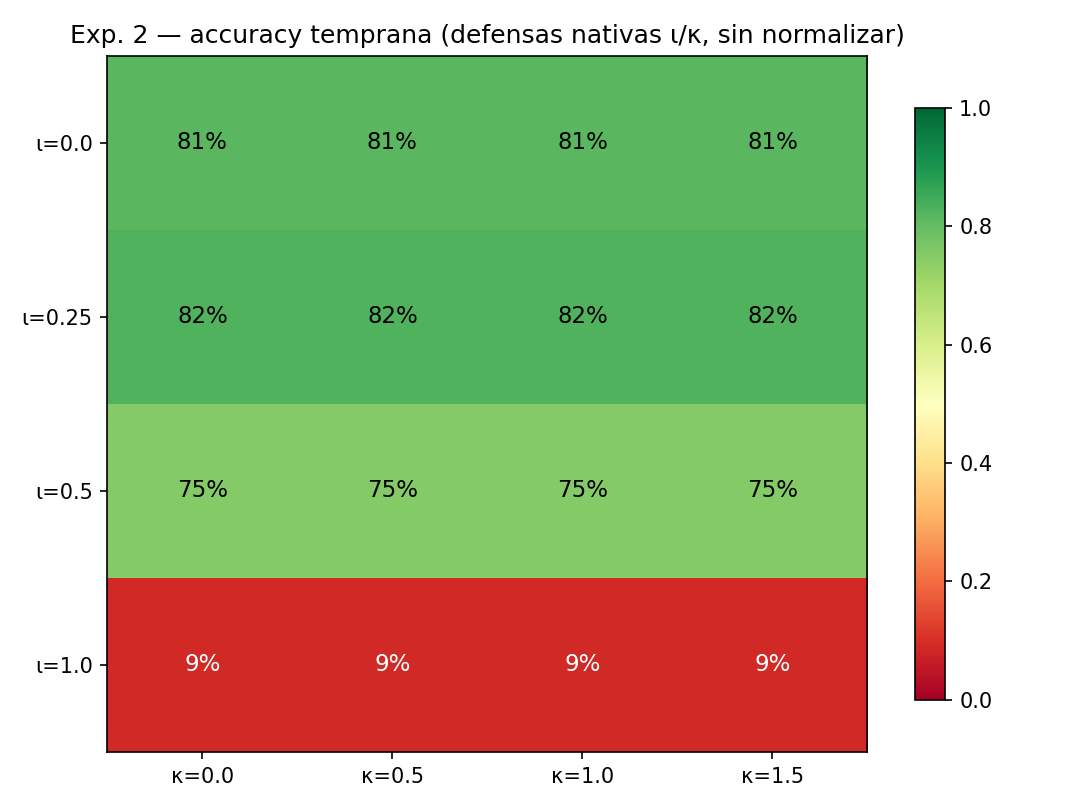
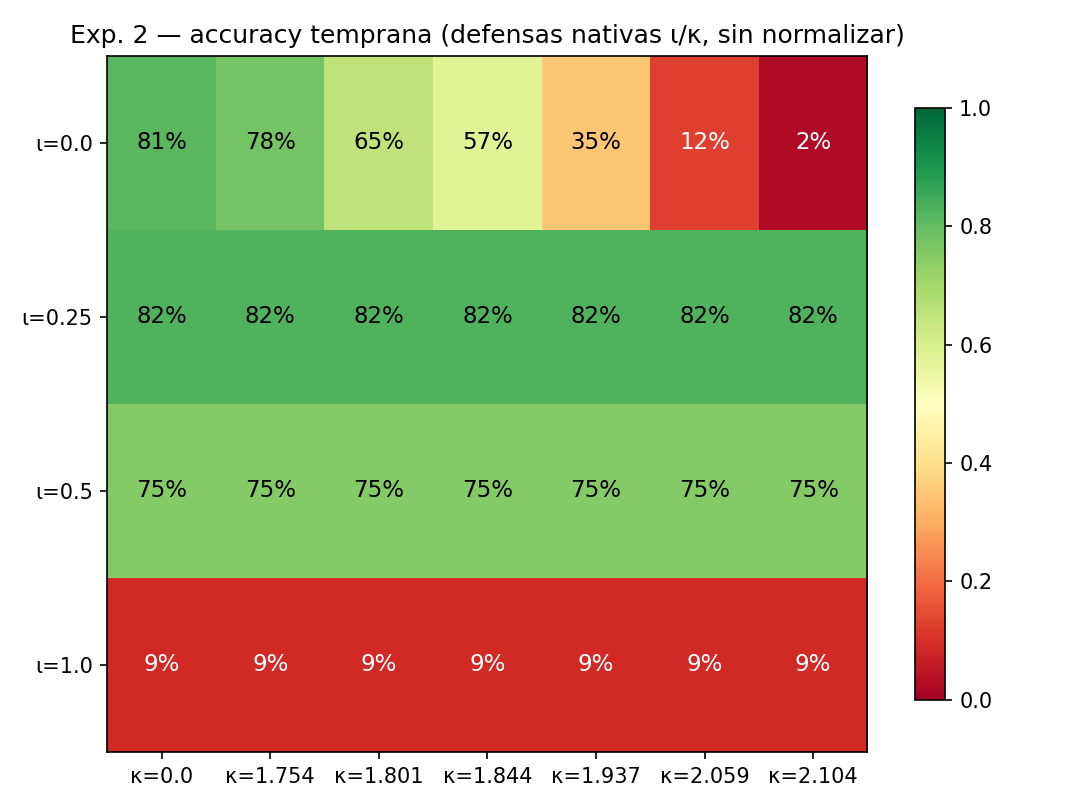
exp2: la rejilla de kappa sale de los cuantiles de la razon que compara la compuerta, no de una lista a mano
Con la compuerta ya por celda (26 oct), kappa <= 1.5 no rechazaba nada: la razon (activacion por celda / mem.mean) de los 260 pares token-agente contenidos del banco va de 1.519 a 2.104 con iota=0. La rejilla nueva es 0 mas los cuantiles 10, 25, 50, 75, 90 y 100 % de esa razon: {0, 1.754, 1.801, 1.844, 1.937, 2.059, 2.104}.

Con iota=0, kappa solo rechaza: la temprana baja de 81.2 a 2.5 % y el rechazo sube de 5.0 a 96.2 %; ninguna columna mejora la linea base (la mejor, 77.5 %). Con iota >= 0.25 kappa no actua en este rango: la poda concentra la activacion en las celdas que sobreviven y mem.mean no cambia, asi que la razon minima sube a 2.33, 2.78 y 3.96. El reporte lo muestra con una tabla de la razon por iota. Downstream sin cambios (72.5 / 81.2 y 80.0 / 83.8).

diff --git a/run_experiment2_iota_kappa.py b/run_experiment2_iota_kappa.py
@@ -67,9 +67,11 @@ from stage6_interaction import (
     get_fasttext_vector, token_in_vocabulary,
 )
 
-# Grid del barrido
+# Grid del barrido. KAPPAS se fija en main(): 0 más los cuantiles de la
+# razón que compara la compuerta, medida con iota=0 sobre el banco.
 IOTAS  = [0.0, 0.25, 0.5, 1.0]
-KAPPAS = [0.0, 0.5, 1.0, 1.5]
+KAPPA_QUANTILES = (0.10, 0.25, 0.50, 0.75, 0.90, 1.0)
+KAPPAS = []
 
 # Cues diagnósticos (token, dominio esperado). Solo cubren car, apple y
 # horse, asi que diag_acc mide 3 de los 8 dominios, no el sistema completo.
@@ -124,12 +126,42 @@ def agent_score(mem_L, mem_H, v_q, kappa, normalize=False):
     # cue.size); mem.mean es por celda, así que se compara por celda.
     defined = np.array([not mem_H.is_undefined(k, 0) for k in ca])
     w_used = ca.size * weights[defined].sum() / weights.sum()
-    if mem_mean > 0 and mean_act / w_used < kappa * mem_mean:
+    if mem_mean > 0 and gate_ratio(mean_act, w_used, mem_mean) < kappa:
         return 0.0
 
     if normalize and mem_mean > 0:
         return mean_act / mem_mean
     return mean_act
+
+
+def gate_ratio(mean_act, w_used, mem_mean):
+    """Lo que la compuerta compara con kappa: activación por celda / mem.mean."""
+    return mean_act / w_used / mem_mean
+
+
+def bank_gate_ratios(agents_mem, queries, nlp, vectors, tok_cache):
+    """Razón de la compuerta para cada (token del banco, agente) contenido."""
+    ratios = []
+    for query in queries:
+        for tok in _represented_tokens(tokenize_query(query, nlp), vectors, tok_cache):
+            v_q = tok_cache[tok]
+            for cls in CLASSES:
+                mem_L, mem_H = agents_mem[cls]
+                l_w = mem_L.recog_weights(v_q)
+                weights = l_w / l_w.max() if l_w.max() > 0 else np.ones(len(v_q))
+                ca = mem_H.validate(v_q, 0)
+                with contextlib.redirect_stdout(io.StringIO()):
+                    proj = mem_H.project(ca, weights, 0)
+                    mem_mean = float(mem_H.mean)
+                if np.count_nonzero(np.sum(proj, axis=1) == 0) > 0 or mem_mean <= 0:
+                    continue
+                count = int(np.count_nonzero(proj))
+                if count == 0:
+                    continue
+                defined = np.array([not mem_H.is_undefined(k, 0) for k in ca])
+                w_used = ca.size * weights[defined].sum() / weights.sum()
+                ratios.append(gate_ratio(float(np.sum(proj)) / count, w_used, mem_mean))
+    return np.array(ratios)
 
 
 def set_params(agents_mem, iota, kappa):
@@ -260,6 +292,24 @@ def main():
         bank_tokens.update(tokenize_query(q, nlp))
     prevectorize(vectors, bank_tokens, allow_fallback=False)
     tok_cache = {}
+
+    set_params(agents_mem, 0.0, 0.0)
+    ratios = bank_gate_ratios(agents_mem, queries, nlp, vectors, tok_cache)
+    qs = np.quantile(ratios, KAPPA_QUANTILES)
+    KAPPAS[:] = [0.0] + [round(float(q), 3) for q in qs]
+    print(f"\nRazón de la compuerta (ι=0, {ratios.size} pares token-agente contenidos): "
+          f"mín {ratios.min():.3f} · mediana {np.median(ratios):.3f} · máx {ratios.max():.3f}")
+    print("κ = 0 y cuantiles " + ", ".join(f"{q:.0%}" for q in KAPPA_QUANTILES)
+          + f" → {KAPPAS}")
+    # La rejilla sale de ι=0; con poda la razón cambia, y se reporta por ι.
+    ratio_range = {}
+    for iota in IOTAS:
+        set_params(agents_mem, iota, 0.0)
+        r = ratios if iota == 0.0 else bank_gate_ratios(agents_mem, queries, nlp, vectors, tok_cache)
+        ratio_range[iota] = ((r.size, float(r.min()), float(np.median(r)), float(r.max()))
+                             if r.size else (0, float("nan"), float("nan"), float("nan")))
+        print(f"  ι={iota}: razón en {ratio_range[iota][0]} pares · mín {ratio_range[iota][1]:.3f} · "
+              f"mediana {ratio_range[iota][2]:.3f} · máx {ratio_range[iota][3]:.3f}")
 
     rows = []
     n_cond = len(IOTAS) * len(KAPPAS)
@@ -392,7 +442,13 @@ def main():
         "experimento 1 obligó a introducir la normalización B1 / ÷mem.mean.",
         "",
         "## Setup",
-        f"- Grid: ι ∈ {IOTAS} × κ ∈ {KAPPAS} (mutación en-memoria, setters originales)",
+        f"- Grid: ι ∈ {IOTAS} × κ ∈ {KAPPAS} (mutación en-memoria, setters originales). "
+        "κ no se elige a mano: es 0 más los cuantiles "
+        + ", ".join(f"{q:.0%}" for q in KAPPA_QUANTILES)
+        + " de la razón que compara la compuerta (activación por celda / mem.mean), "
+        f"medida con ι=0 sobre los {ratios.size} pares token-agente contenidos del banco "
+        f"(mín {ratios.min():.3f}, mediana {np.median(ratios):.3f}, máx {ratios.max():.3f}). "
+        "Con el cuantil q, κ deja pasar como mucho la fracción 1−q de esos pares.",
         "- Banco: primeras 80 queries del banco de 8 clases con ground truth "
         "(10 por clase)",
         "- **Dentro de muestra:** el downstream llena M_dir con los tokens de "
@@ -411,6 +467,11 @@ def main():
         f"early {best['early_acc_gated']:.1%} "
         f"(rechazo {best['early_rej_gated']:.1%}), "
         f"diag {best['diag_acc_gated']:.1%}",
+        "- κ con ι=0: la mejor columna con κ>0 da early "
+        f"{max(r['early_acc_gated'] for r in rows if r['iota'] == 0 and r['kappa'] > 0):.1%} "
+        f"contra {base['early_acc_gated']:.1%} sin κ; el rechazo va de "
+        f"{min(r['early_rej_gated'] for r in rows if r['iota'] == 0 and r['kappa'] > 0):.1%} a "
+        f"{max(r['early_rej_gated'] for r in rows if r['iota'] == 0 and r['kappa'] > 0):.1%}.",
         "",
         "## Tabla del grid (brazo GATED, sin normalizar)",
         "",
@@ -423,6 +484,23 @@ def main():
             r = next(x for x in rows if x["iota"] == iota and x["kappa"] == kappa)
             cells.append(f"{r['early_acc_gated']:.0%} (rej {r['early_rej_gated']:.0%})")
         lines.append(f"| **{iota}** | " + " | ".join(cells) + " |")
+    kmax = max(KAPPAS)
+    lines += [
+        "",
+        "### ¿Qué compara κ en cada ι?",
+        "",
+        "La razón (activación por celda / mem.mean) de los pares token-agente contenidos. "
+        "La rejilla de κ sale de la fila ι=0. Con poda, la activación se concentra en las "
+        "celdas que sobreviven y mem.mean no cambia, así que la razón sube; si su mínimo "
+        f"supera el κ máximo ({kmax}), κ no rechaza nada en esa fila.",
+        "",
+        "| ι | pares | mín | mediana | máx | ¿κ máx rechaza algo? |",
+        "|---|---|---|---|---|---|",
+    ]
+    for iota in IOTAS:
+        n_p, lo, med, hi = ratio_range[iota]
+        lines.append(f"| {iota} | {n_p} | {lo:.3f} | {med:.3f} | {hi:.3f} | "
+                     f"{'sí' if n_p and lo < kmax else 'no'} |")
     lines += [
         "",
         "## Downstream (¿sigue haciendo falta B1?)",

diff --git a/results/exp2_iota_kappa/report.md b/results/exp2_iota_kappa/report.md
@@ -6,7 +6,7 @@ relativo a la media de cada memoria) eliminan el sesgo de masa que en el
 experimento 1 obligó a introducir la normalización B1 / ÷mem.mean.
 
 ## Setup
-- Grid: ι ∈ [0.0, 0.25, 0.5, 1.0] × κ ∈ [0.0, 0.5, 1.0, 1.5] (mutación en-memoria, setters originales)
+- Grid: ι ∈ [0.0, 0.25, 0.5, 1.0] × κ ∈ [0.0, 1.754, 1.801, 1.844, 1.937, 2.059, 2.104] (mutación en-memoria, setters originales). κ no se elige a mano: es 0 más los cuantiles 10%, 25%, 50%, 75%, 90%, 100% de la razón que compara la compuerta (activación por celda / mem.mean), medida con ι=0 sobre los 260 pares token-agente contenidos del banco (mín 1.519, mediana 1.844, máx 2.104). Con el cuantil q, κ deja pasar como mucho la fracción 1−q de esos pares.
 - Banco: primeras 80 queries del banco de 8 clases con ground truth (10 por clase)
 - **Dentro de muestra:** el downstream llena M_dir con los tokens de esas 80 queries y evalúa la fase madura sobre las mismas. Mide si el directorio reproduce lo que registró, no si generaliza.
 - Score: activación media de project() con pesos de M_dom_L,
@@ -17,15 +17,27 @@ experimento 1 obligó a introducir la normalización B1 / ÷mem.mean.
 - Baseline ι=0 κ=0 (la condición que usó exp. 1; número FRESCO de 8 clases, no la cifra histórica): early 81.2%, diag 81.8%
 - Referencia ÷mem.mean (ι=0 κ=0): early 76.2%
 - Mejor condición nativa: ι=0.25 κ=0.0 → early 82.5% (rechazo 5.0%), diag 81.8%
+- κ con ι=0: la mejor columna con κ>0 da early 77.5% contra 81.2% sin κ; el rechazo va de 6.2% a 96.2%.
 
 ## Tabla del grid (brazo GATED, sin normalizar)
 
-| ι \ κ | 0.0 | 0.5 | 1.0 | 1.5 |
-|---|---|---|---|---|
-| **0.0** | 81% (rej 5%) | 81% (rej 5%) | 81% (rej 5%) | 81% (rej 5%) |
-| **0.25** | 82% (rej 5%) | 82% (rej 5%) | 82% (rej 5%) | 82% (rej 5%) |
-| **0.5** | 75% (rej 11%) | 75% (rej 11%) | 75% (rej 11%) | 75% (rej 11%) |
-| **1.0** | 9% (rej 86%) | 9% (rej 86%) | 9% (rej 86%) | 9% (rej 86%) |
+| ι \ κ | 0.0 | 1.754 | 1.801 | 1.844 | 1.937 | 2.059 | 2.104 |
+|---|---|---|---|---|---|---|---|
+| **0.0** | 81% (rej 5%) | 78% (rej 6%) | 65% (rej 10%) | 57% (rej 19%) | 35% (rej 45%) | 12% (rej 85%) | 2% (rej 96%) |
+| **0.25** | 82% (rej 5%) | 82% (rej 5%) | 82% (rej 5%) | 82% (rej 5%) | 82% (rej 5%) | 82% (rej 5%) | 82% (rej 5%) |
+| **0.5** | 75% (rej 11%) | 75% (rej 11%) | 75% (rej 11%) | 75% (rej 11%) | 75% (rej 11%) | 75% (rej 11%) | 75% (rej 11%) |
+| **1.0** | 9% (rej 86%) | 9% (rej 86%) | 9% (rej 86%) | 9% (rej 86%) | 9% (rej 86%) | 9% (rej 86%) | 9% (rej 86%) |
+
+### ¿Qué compara κ en cada ι?
+
+La razón (activación por celda / mem.mean) de los pares token-agente contenidos. La rejilla de κ sale de la fila ι=0. Con poda, la activación se concentra en las celdas que sobreviven y mem.mean no cambia, así que la razón sube; si su mínimo supera el κ máximo (2.104), κ no rechaza nada en esa fila.
+
+| ι | pares | mín | mediana | máx | ¿κ máx rechaza algo? |
+|---|---|---|---|---|---|
+| 0.0 | 260 | 1.519 | 1.844 | 2.104 | sí |
+| 0.25 | 252 | 2.325 | 2.898 | 3.398 | no |
+| 0.5 | 222 | 2.778 | 3.465 | 3.922 | no |
+| 1.0 | 11 | 3.959 | 4.416 | 4.416 | no |
 
 ## Downstream (¿sigue haciendo falta B1?)
 
